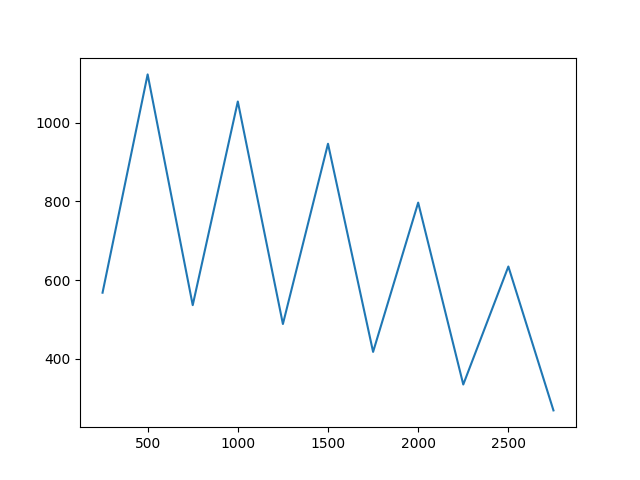
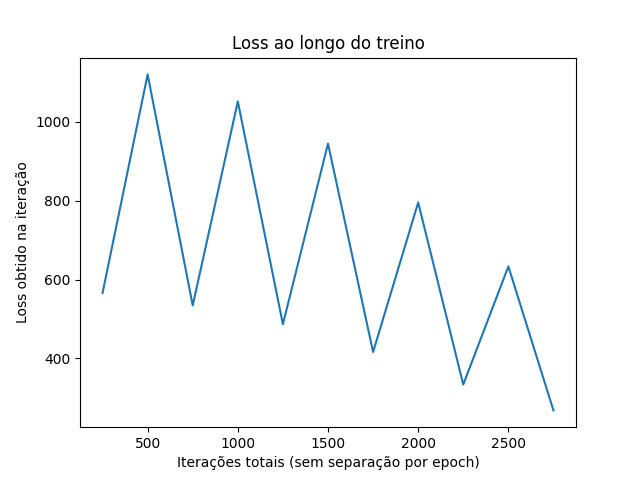
Pequenos detalhes nos gráficos

diff --git a/net.py b/net.py
@@ -151,4 +151,7 @@ print(f"Final accuracy: {final_accuracy:.2f}%")
 # Salvando o loss ao longo do treino em uma pasta:
 plt_path = os.path.join('output', 'graph', f'mnist_{epochs}_{-np.log10(lr):.0f}.png')
 plt.plot(iters_loss.keys(), iters_loss.values())
+plt.title("Loss ao longo do treino")
+plt.xlabel("Iterações totais (sem separação por epoch)")
+plt.ylabel("Loss obtido na iteração")
 plt.savefig(plt_path)
